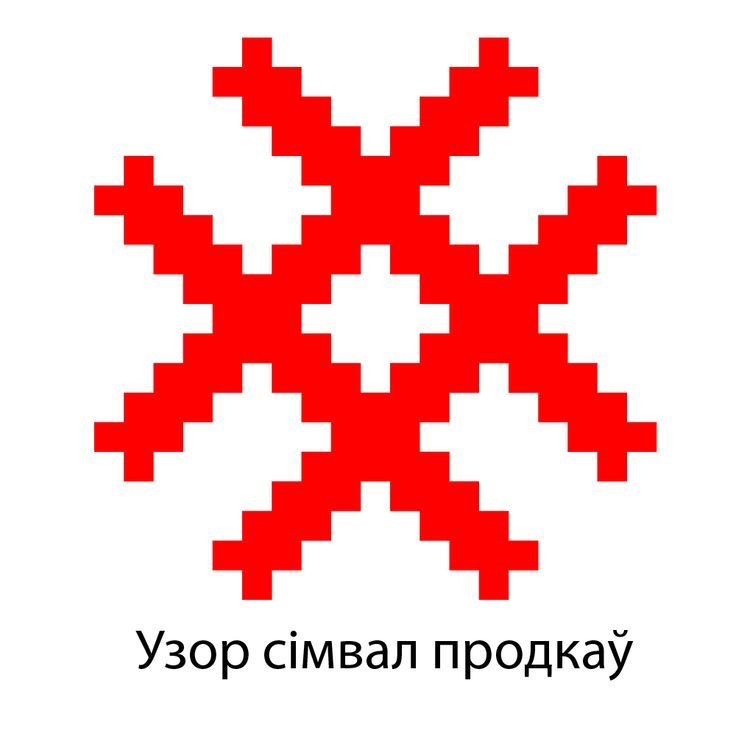
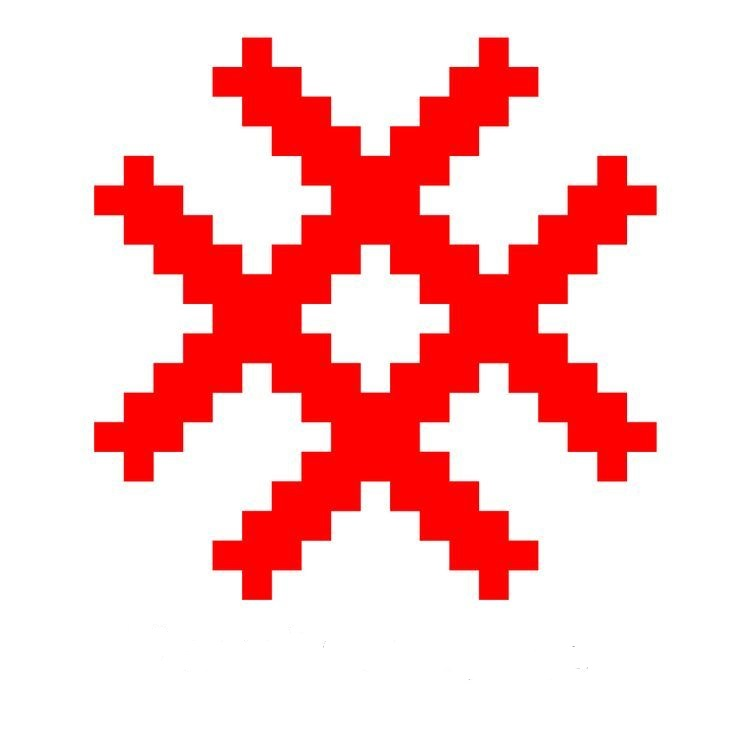
Add files via upload

Changed region(s): [[0.1875, 0.8438, 0.875, 0.9375]]

diff --git a/book.js b/book.js
@@ -34,7 +34,8 @@ const PAGE_CONTENT = {
 </div>
 <div class="timeline-item">
 <span class="timeline-date">II тыс. до н. э.</span><br>
-<img class="book-image" src="img/stanok.jpg"><img class="book-image" src="img/stanok-2.jpg">
+<div class="image-block"><img class="book-image" style="margin-left: 20%;" src="img/stanok.jpg"></div>
+<div class="image-block"><img class="book-image" style="margin-left: 20%;" src="img/stanok-2.jpg"></div>
 <div class="fact-box">
 <div class="fact-text"><strong>Горизонтальный станок</strong> — конструкция, появившаяся во II тысячелетии до н. э. и претерпевшая лишь незначительные изменения, сохранилась до наших дней как образец инженерного совершенства.</div>
 </div>
@@ -43,7 +44,11 @@ const PAGE_CONTENT = {
 <h1>Подготовка материала<h2 class="emblem-hr">sdjqertiop</h2></h1>
 <p class="drop-cap">Основным сырьём для изготовления тканей в домашних условиях у белорусов издавна был лён. В конце лета его выдёргивали из земли вместе с корнями и расстилали на земле «мокнуть».</p>
   <div>
-    <div class="book-image-block"><img width="45%" height="15%" src="img/threads.jpg"><p class="left-book-text-after-image" class="drop-cap">По прошествии одного-полутора месяцев стебли собирали, оббивали головки с семенами при помощи валька — <em>«праніка»</em>, <em>«пральніка»</em>, — после чего высушивали и мяли на мялке — <em>«мяліцы»</em>, <em>«церніцы»</em>.</p></div>
+    <div class="book-image-block">
+    <div class="image-block">
+      <img class="book-image-text" src="img/threads.jpg">
+    </div>
+    <p class="left-book-text-after-image" class="drop-cap">По прошествии одного-полутора месяцев стебли собирали, оббивали головки с семенами при помощи валька — <em>«праніка»</em>, <em>«пральніка»</em>, — после чего высушивали и мяли на мялке — <em>«мяліцы»</em>, <em>«церніцы»</em>.</p></div>
   </div>
 </div>
 <p>Чтобы очистить волокно от мелких кусочков костры, использовали похожее на меч или лопату деревянное <strong>трепало</strong> — <em>«трапло»</em>, <em>«трапушку»</em>, — которым терпеливо выбивали из льна все лишние частицы.</p>
@@ -54,7 +59,9 @@ const PAGE_CONTENT = {
 <h4>Приспособления прядения:</h4>
   <div>
     <div class="book-image-block">
-      <img width="35%" height="28%" src="img/skalnya.jpg">
+      <div class="image-block">
+        <img class="book-image-text" src="img/skalnya.jpg">
+      </div>
       <p class="left-book-text-after-image" text-indent:0"><strong>Прялка</strong> (<em>«прасніца»</em>), <strong>Скальня</strong>, <strong>веретено</strong> и <strong>самопрялка</strong> (<em>«калаўрот»</em>). Для лучшего скручивания нитей пряха смачивала волокно слюной, отчего пряжа становилась влажной и требовала просушки — для этого применяли <strong>мотовило</strong> (<em>«вітушка»</em>).</p>
     </div>
   </div>
@@ -72,7 +79,12 @@ const PAGE_CONTENT = {
 <div class="col">
 <h4>Зев</h4>
 <p>Пространство между поднятыми и опущенными нитями, в которое пробрасывается челнок с уточной нитью.</p>
-<img style="margin-left: 4.5%;" width="30%" src="img/berdo.jpg"><img style="margin-left: 4.5%;" width="53.2%" src="img/samopryalka.jpg">
+<div class="image-block">
+  <img class="book-image" style="width: 15%; margin-left: 20%;" src="img/berdo.jpg">
+</div>
+<div class="image-block">
+  <img class="book-image" style="margin-left: 20%;" src="img/samopryalka.jpg">
+</div>
 </div>
 </div>
 <p>Заправка кросен производится <strong>вдвоём</strong> и требует высокого мастерства.</p> 
@@ -82,7 +94,9 @@ const PAGE_CONTENT = {
   <h1>Процесс ткачества<h2 class="emblem-hr">sdjqertiop</h2></h1>
   <blockquote>Собственно ткать или, как говорили в старину, «затыкать кросны», — намного проще.</blockquote>
     <div class="book-image-block">
-      <img width="40%" height="10%" src="img/ornament.jpg">
+      <div class="image-block">
+        <img class="book-image-text" src="img/ornament.jpg">
+      </div>
       <p class="left-book-text-after-image">Ткачиха ногой нажимает на педали — <em>«поножи»</em>. При этом одна часть нитов опускается, другая поднимается, а в образовавшийся между нитями основы <strong>зев</strong> пробрасывается челнок с уточной нитью. Бердо плотно прибивает новый ряд утка к предыдущему.</p>
     </div>
   <p>Именно в момент ткачества рождался орнамент — тот самый, что превращал обычное льняное полотно в послание рода, в оберег, в молитву, вплетённую в нити.</p>
@@ -96,9 +110,14 @@ const PAGE_CONTENT = {
 <div class="ornament-divider">◆ ◇ ◆</div>
 <p>«Баба» — повитуха — принимала младенца, обернув руки куском нового полотна, чтобы тот «не жил с голыми руками». В знак траура вывешивали рушник с узкими полосами узора — каймами. Во время бедствий, засухи, эпидемий всем селом ткали особое льняное полотенце — <strong>«обыденник»</strong>, которое должно было умилостивить высшие силы.</p>
 <blockquote>Самыми нарядными, щедро украшенными и яркими были свадебные рушники.</blockquote>
-<img width="25%" style="margin-left: 16%;" src="img/rushnik-1.jpg"><img width="25%" style="margin-left: 16%;" src="img/rushnik-2.jpg">
+<div class="image-block">
+  <img class="book-image" style="width: 23%; margin-left: 20%;" src="img/rushnik-1.jpg">
+</div>
+<div class="image-block">
+  <img class="book-image" style="width: 23%; margin-left: 20%;" src="img/rushnik-2.jpg">
+</div>
 <div class="highlight-box">
-<h4>Символика</h4>
+<h4 style="margin-top: 55px;">Символика</h4>
 <p style="margin:0;text-indent:0">Каждый элемент орнамента на рушнике — ромб, розетка, крест, солярный знак — нёс свой обереговый смысл.</p>
 </div>
 `,
@@ -156,21 +175,21 @@ const PAGE_CONTENT = {
 <p>В отличие от культур, склонных к натуралистичному копированию, белорусские мастера сводили растительные мотивы (листья, цветы, плоды) к строгой стилизации. Зооморфные образы животных и антропоморфные фигуры также подчинялись законам симметрии и геометризации.</p>
 <div class="symbol-grid">
 <div class="symbol-card">
-<div class="symbol-icon"><img class="symbol-of-ornament" src="img/romb.png"></div>
+<div class="symbol-icon"><div class="image-block"><img class="symbol-of-ornament" src="img/romb.png"></div></div>
 <div class="ornament">
 <h4>Ромб</h4>
 <p>Земля, плодородие, засеянное поле</p>
 </div>
 </div>
 <div class="symbol-card">
-<div class="symbol-icon"><img class="symbol-of-ornament" src="img/cross.jpg"></div>
+<div class="symbol-icon"><div class="image-block"><img class="symbol-of-ornament" src="img/cross.jpg"></div></div>
 <div class="ornament">
 <h4>Крест</h4>
 <p>Четыре стороны света, солярный цикл</p>
 </div>
 </div>
 <div class="symbol-card">
-<div class="symbol-icon"><img class="symbol-of-ornament" src="img/spiral.png"></div>
+<div class="symbol-icon"><div class="image-block"><img class="symbol-of-ornament" src="img/spiral.png"></div></div>
 <div class="ornament">
 <h4>Спираль</h4>
 <p id="spiral">Движение времени, развитие жизни</p>
@@ -210,8 +229,16 @@ const PAGE_CONTENT = {
 <p class="drop-cap">Каждая линия и ромб в белорусском орнаменте когда-то нес в себе сакральный смысл: защиту, плодородие, связь с природой и предками.</p>
 <div class="ornament-divider">◆ ◇ ◆</div>
 <p>Если раньше орнамент украшал фасады лишь этнографических музеев, то сегодня он выходит на улицы спальных районов. Белорусские муралисты и художники используют традиционные «рупы», «ромбы» и «кресты» как основу для масштабных уличных росписей.</p>
-<img class="ornament-now" src="img/5363878433303241690.jpg"><img class="ornament-now" src="img/5363878433303241692.jpg"><img class="ornament-now" width="170px" src="img/5363878433303241689.jpg">
-<p>Геометрическая строгость белорусского узора идеально ложится на архитектуру: строгие линии и ритмичные повторы превращают глухие бетонные стены в динамичные арт-объекты.</p>
+<div class="image-block">
+  <img class="book-image" style="width: 20%; margin-left: 7%;" src="img/5363878433303241690.jpg">
+</div>
+<div class="image-block">
+  <img class="book-image" style="width: 20%; margin-left: 7%;" src="img/5363878433303241692.jpg">
+</div>
+<div class="image-block">
+  <img class="book-image" style="width: 20%; margin-left: 7%;" src="img/5363878433303241689.jpg">
+</div>
+<p style="margin-top: 45px;">Геометрическая строгость белорусского узора идеально ложится на архитектуру: строгие линии и ритмичные повторы превращают глухие бетонные стены в динамичные арт-объекты.</p>
 <div class="ornament-divider">◆ ◇ ◆</div>
 <p>Сейчас орнамент стал использоваться <strong>повсеместно</strong>: в искусстве, в архитектуре, в декоре. Они дополняет друг друга.</p>`,
 };

diff --git a/book.css b/book.css
@@ -21,7 +21,17 @@
   font-style: normal;
   color: #b32c15;
 }
-
+.image-block{
+  position: static;
+  width: 30%;
+  height: 130px;
+  display: inline-block;
+}
+img{
+  border-radius: 2px;
+  box-shadow: 0px 0px 23px -8px black;
+  position: absolute;
+}
 html,
 body {
   overflow: hidden;
@@ -94,7 +104,7 @@ h1{
   flex-shrink: 0;
 }
 .left-book-text-after-image{
-  margin-left: 2.5%;
+  margin-left: 23%;
   margin-top: 2%;
 }
 .book-image-block{
@@ -117,8 +127,27 @@ h1{
   background: rgba(52, 152, 219, 0.06);
 }
 .book-image{
-  width: 45%;
-  margin-left: 4.5%;
+  width: 25%;
+  margin-left: 10%;
+  position: absolute;
+  transition: 0.7s;
+}
+.book-image-text{
+  width: 25%;
+  position: absolute;
+  transition: 0.7s;
+}
+.book-image:hover{
+  transition: 0.7s;
+  transform: scale(1.8);
+}
+.book-image-text:hover{
+  transition: 0.7s;
+  transform: scale(1.8);
+}
+.symbol-of-ornament:hover{
+  transition: 0.7s;
+  transform: scale(1.8);
 }
 .topic-title {
   display: flex;
@@ -772,15 +801,15 @@ strong{
   margin-bottom: 20px;
 }
 .symbol-icon {
-  padding-left: 500px;
-  margin-top: 25px;
+  padding-left: 80%;
 }
 .symbol-of-ornament {
   width: 75px;
   object-fit: contain;
+  transition: 0.7s;
 }
 .ornament {
-  margin-top: -35px;
+  margin-top: -100px;
 }
 .page-content .symbol-card h4 {
   font-family: "Playfair Display", "Georgia", serif;
@@ -1719,9 +1748,6 @@ strong{
     width: 100%;
     max-width: 900px;
     height: min(680px, calc(100vh - 90px));
-  }
-  .symbol-icon {
-    padding-left: 80%;
   }
   .ornament-now {
     width: 29%;

diff --git a/index.html b/index.html
@@ -11,7 +11,7 @@
 
   <nav class="nav">
     <div class="nav-img_and_p">
-      <img class="logo img-nav" src="https://kirmash.by/images/content/s000535_808860.jpg" alt="logo">
+      <img class="logo img-nav" src="img/logo.jpg" alt="logo">
       <p class="brand">Нить судьбы: от женских рук до музейных витрин</p>
     </div>
   </nav>

diff --git a/main.css b/main.css
@@ -125,6 +125,7 @@ main {
   padding: 130px 0 130px 0;
   gap: 20px;
   align-items: flex-start;
+  height: 400px;
 }
 .why {
   display: flex;
@@ -322,6 +323,7 @@ footer {
     padding: 60px 0;
     gap: 20px;
     align-items: center;
+    height: 450px;
   }
   .why {
     width: 100%;
